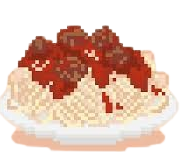
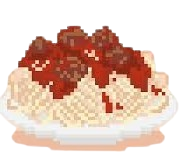
Added new sprites for new meals and changed the location of the plate

diff --git a/src/DrawPanel.java b/src/DrawPanel.java
@@ -51,7 +51,7 @@ class DrawPanel extends JPanel implements MouseListener,KeyListener, MouseMotion
         if(kitchen){
             g.setColor(Color.WHITE);
             g.drawImage(s.getScreenImage(),0,0,null );
-            g.drawImage(s.getPlateImage(), 1100,600,null);
+            g.drawImage(s.getPlateImage(), 1125,600,null);
 
             //Draw receipt and current order
             g.drawImage(o.getReceiptImage(),(int) o.getReceiptBox().getX(),(int)o.getReceiptBox().getY(),null);
